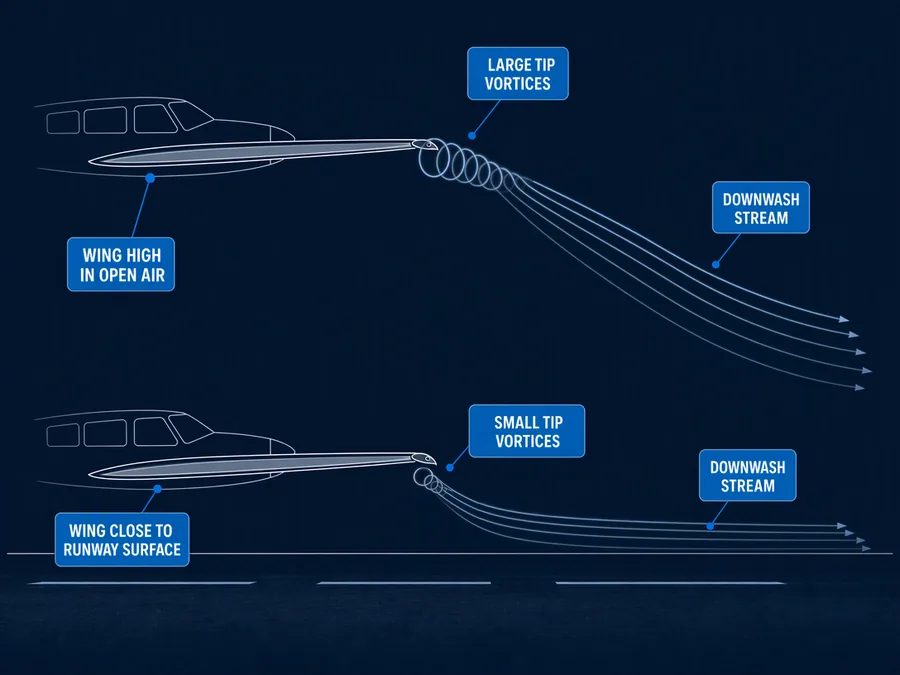
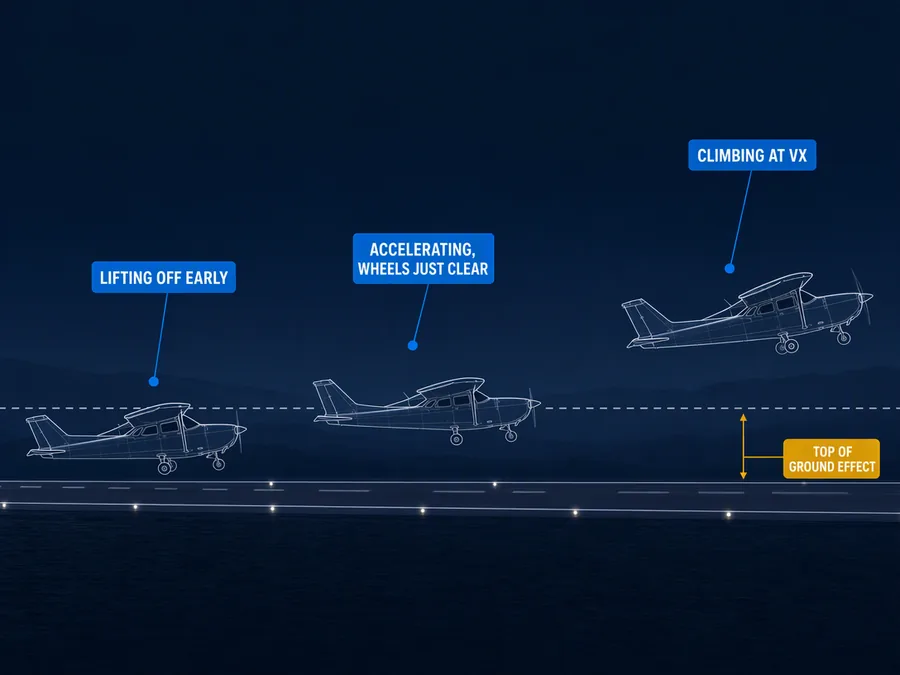
site: deploy website from monorepo c2369bd5
Auto-mirrored by .github/workflows/deploy-website.yml

diff --git a/explainers/ground-effect-in-the-flare/index.html b/explainers/ground-effect-in-the-flare/index.html
@@ -69,7 +69,7 @@
         "representativeOfPage": true
       },
       "mainEntityOfPage": "https://flightdecide.com/explainers/ground-effect-in-the-flare/",
-      "wordCount": 914,
+      "wordCount": 909,
       "sameAs": [
         "https://www.instagram.com/p/DdXk59RGQCe/"
       ],
@@ -159,53 +159,53 @@
       <li><span class="fk-label">SAME ATTITUDE, STILL SINKING</span><span class="fk-points">The pale ghost outline higher up and the two tight tip vortices trailing beneath it.</span></li>
     </ul>
 
-    <h2>Why the airplane won&#x27;t touch down</h2>
-    <p>You cross the threshold a little fast, close the throttle and start the flare. The nose comes up to the landing attitude. Then the runway keeps sliding by underneath, and the wheels stay just off it.</p>
-    <p>Pilots have felt this since the start of powered flight. Just before touchdown, the airplane seems unwilling to go any lower. The name for it is ground effect, the change in how air moves around a wing flying very close to the surface.</p>
-    <p>Ground effect works mostly by taking away part of one kind of drag. To see why that makes you float, start with where that drag comes from.</p>
+    <h2>What the float feels like</h2>
+    <p>You&#x27;re over the numbers at idle, easing back to hold the landing attitude. The wheels should be close to touching. Instead the airplane stays a few feet up and the runway keeps sliding by underneath.</p>
+    <p>That hold-off is ground effect. It&#x27;s a change in how the wing works when it flies very close to the surface, and the handbook calls it improved performance. Near the ground the wing does the same job with less drag.</p>
+    <p>It matters most when you hold a steady attitude at low speed and low height. That happens in two places on every flight. One is the flare before touchdown, and the other is the first moments after lift-off.</p>
 
-    <h2>Where induced drag comes from</h2>
-    <p>Your wing holds you up by pushing a mass of air downward. The air leaving the back of the wing on its way down is called downwash. The more downwash there is, the harder the wing is working.</p>
-    <p>Pressure under the wing is higher than pressure on top. So air spills outward and curls up around each tip, forming a spinning tube of air called a wingtip vortex. The energy that goes into those vortices is paid for as induced drag, the drag that comes with making lift.</p>
-    <p>Induced drag grows with angle of attack, the angle between the wing and the oncoming air. The slower you fly, the more angle you need to hold the airplane up. So induced drag is at its biggest at low speed.</p>
-    <p>That matters in the flare, where you are slow and nose high. Parasite drag, the drag of pushing the airframe through the air, grows with speed, so it&#x27;s small here. Most of what slows you down in the flare is induced drag.</p>
+    <h2>Why drag drops near the runway</h2>
+    <p>Every wing that makes lift also makes induced drag, the drag that comes with producing lift. It&#x27;s tied to the air the wing disturbs. Some air rises ahead of the wing, called upwash, and some is pushed down behind it, called downwash.</p>
+    <p>At each tip that disturbed air rolls up into wingtip vortices, the swirls that trail behind each wingtip. Close to the ground, upwash, downwash and those vortices all get weaker. Weaker vortices mean less induced drag.</p>
+    <p>Less drag means the airplane needs less thrust to hold a low airspeed in level flight. Near the surface, the same power goes further.</p>
+    <p>This only counts at low speed. At high speed, most of the total drag is parasite drag, the drag of pushing the airframe through the air. Induced drag is then a small share, so ground effect is mostly a takeoff and landing matter.</p>
 
-    <h2>What the runway does to the airflow</h2>
-    <p>Close to the ground, the surface gets in the way. The air around the wing can&#x27;t move up and down freely, because the runway is right there. That changes the whole pattern of flow around the wing.</p>
-    <p>The wing now makes less upwash, the air rising just ahead of it, and less downwash behind it. The tip vortices get weaker too. Weaker vortices mean less induced drag, and the wing needs a smaller angle of attack to make the same lift.</p>
-    <p>If you hold the same angle of attack instead, the wing makes more lift than it did higher up. Either way, the thrust required, the push needed to hold your speed against total drag, goes down. Induced drag is the big share at low speed, so that drop is large right where you fly the flare.</p>
-
-    <figure class="explainer-inline">
-      <img src="/assets/explainers/figures/ground-effect-in-the-flare-fig1.webp" alt="Near the surface the air under the wing has less room to go down, so the vortices that cost you drag shrink." loading="lazy" decoding="async" />
-      <figcaption>Near the surface the air under the wing has less room to go down, so the vortices that cost you drag shrink.</figcaption>
-    </figure>
-
-    <h2>How close the wing has to be</h2>
-    <p>Ground effect can normally be detected from a height of one wingspan above the surface. That is the outer edge, and at that edge the effect is tiny. The large drops only come much lower.</p>
-    <p>Two FAA handbooks give the figures. The Pilot&#x27;s Handbook of Aeronautical Knowledge gives exact percentages, and it lists the one-wingspan case. The Airplane Flying Handbook rounds the lower two. The table puts them side by side.</p>
-    <p>Look at how fast the numbers grow. Coming down from a quarter of the span to a tenth of it roughly doubles the saving. That&#x27;s why you hardly notice ground effect until the last moments before touchdown or just after liftoff.</p>
+    <h2>How close the ground has to be</h2>
+    <p>You can detect ground effect up to a height equal to one wingspan above the surface, and that&#x27;s normally where it starts. Climb above that and you&#x27;re out of it.</p>
+    <p>The effect grows quickly as you get lower. With the wing a quarter of a span above the surface, induced drag falls by about 25 percent. At a tenth of a span, it falls by about 50 percent.</p>
+    <p>The source gives no percentage for a full wingspan up, or for the heights in between. What its two figures do show is that the effect is strongest nearest the runway, in the last part of the descent.</p>
 
     <figure class="explainer-table">
-      <table><thead><tr><th>Wing height above the surface</th><th>Induced drag reduction, FAA-H-8083-25</th><th>Induced drag reduction, FAA-H-8083-3</th></tr></thead><tbody><tr><td>Equal to the wingspan</td><td>1.4 percent</td><td>Not given</td></tr><tr><td>One-fourth of the span</td><td>23.5 percent</td><td>About 25 percent</td></tr><tr><td>One-tenth of the span</td><td>47.6 percent</td><td>About 50 percent</td></tr></tbody></table>
-      <figcaption>Most of the drag saving comes in the last fraction of a wingspan, which is why the float starts so late in the flare.</figcaption>
+      <table><thead><tr><th>Wing height above the surface</th><th>Reduction in induced drag</th></tr></thead><tbody><tr><td>One wingspan</td><td>Ground effect normally occurs up to this height (no percentage given)</td></tr><tr><td>1/4 of the span</td><td>About 25 percent</td></tr><tr><td>1/10 of the span</td><td>About 50 percent</td></tr></tbody></table>
+      <figcaption>How much induced drag falls away at different wing heights above the surface.</figcaption>
     </figure>
 
-    <h2>Why extra speed turns into float</h2>
-    <p>Now put it together. You are slow, nose high, with the throttle closed. Then you sink into the lowest part of that wingspan and a big slice of your drag disappears.</p>
-    <p>With less drag and no power, very little is slowing the airplane down. Any speed you carried into the flare has nowhere to go. The handbook warns that excess speed at the flare can mean a considerable float distance.</p>
-    <p>Lift goes up as well. Hold the same attitude and the wing makes more lift near the ground than it did above it. On the last part of the approach you need to take off some power to offset that, or the airplane tends to climb above your glidepath.</p>
-    <p>Your instruments change too. Ground effect usually raises the pressure at the static source, the small port that feeds the airspeed indicator and altimeter. In most cases both read a little low, so the needle shows less speed than you really have.</p>
+    <h2>Why you float in the flare</h2>
+    <p>In the flare you&#x27;re doing exactly what ground effect rewards. The power is back, the speed is low, and you&#x27;re holding a steady nose-up attitude as the wing sinks toward the runway.</p>
+    <p>As the wing drops into the last wingspan, induced drag falls away. With less drag slowing it down, the airplane keeps flying longer than you expected. That extra flying is the float.</p>
+    <p>Every second of float is runway passing under you. Knowing the drag drops just where you flare means you can expect the float instead of being caught out by it.</p>
 
-    <h2>Lifting off before you can climb</h2>
-    <p>The same physics works in reverse on takeoff. The takeoff roll, the liftoff and the start of the climb all happen inside ground effect. With drag reduced, the airplane can seem ready to fly below the recommended speed.</p>
-    <p>Climbing out of the last wingspan undoes all of it. Induced drag and thrust required go up. The wing needs more angle of attack for the same lift, the nose tends to pitch up, and indicated airspeed rises as static pressure drops.</p>
-    <p>If you lifted off too slow, that extra drag arrives when you have no speed to spare. Your first climb will be much weaker than at the best rate or best angle speeds. In some airplanes, being 5 knots off the recommended speed may cost a lot of climb performance.</p>
-    <p>At high density altitude, high temperature or maximum gross weight, the airplane may lift off and then be unable to climb out of ground effect. That&#x27;s when it settles back onto the runway. The handbook is clear that you should not force an airplane off the ground without enough speed.</p>
-    <p>Ground effect can also help. On a long runway with no obstacles, the lower drag helps you accelerate early on. From a soft field you lift off early, lower the nose and let speed build with the wheels just clear, climbing out only once you have normal airspeed.</p>
+    <h2>Why you can lift off too slow</h2>
+    <p>The same drop in drag works on takeoff. The takeoff roll, the lift-off and the start of the climb all happen inside the ground effect area. With less drag, the airplane can seem ready to fly below the recommended airspeed.</p>
+    <p>Then it climbs past the last wingspan and loses that help. Drag and the thrust needed both go up. If you&#x27;re still slow, the climb will be much weaker than at VY or even VX, the best rate and best angle of climb speeds.</p>
+    <p>That&#x27;s how an airplane lifts off and then settles back. Pulling it off too early, or climbing too steeply, can put it back on the runway. Even if it stays up, the climb stays flat until you reach VX.</p>
+    <p>High density altitude, high temperature or maximum gross weight make this worse. The airplane may lift off and then be unable to climb out of ground effect or clear obstacles.</p>
+    <p>In some airplanes, flying 5 knots off the recommended speed may cut climb performance a lot. When conditions are marginal, take off at the speed your POH, the pilot&#x27;s operating handbook, gives for a proper initial climb.</p>
+
+    <h2>What changes as you climb out</h2>
+    <p>Down in ground effect, the static pressure around the airplane rises. That&#x27;s the pressure of the surrounding air, sensed by a small port called the static source. Your airspeed indicator, altimeter and vertical speed indicator all use it.</p>
+    <p>So on the takeoff roll and just after lift-off, the airspeed indicator and altimeter read slightly lower than they should. The vertical speed indicator usually shows a descent.</p>
+    <p>As you climb out, the wing needs a higher angle of attack to keep making the same lift. Angle of attack is the angle between the wing and the oncoming air. At the same time, induced drag and thrust required both go up.</p>
+    <p>More downwash now reaches the tail. The nose tends to pitch up, and you need less elevator travel. Static pressure falls back, so indicated airspeed goes up.</p>
+
+    <h2>Using ground effect on purpose</h2>
+    <p>Ground effect is a normal part of flying, and it can help you. On a long enough runway, or with no obstacles ahead, the lower drag gives you better acceleration early in the takeoff.</p>
+    <p>On a soft or rough surface you want the wheels off early. Put as much weight on the wings as you can during the ground run, and let ground effect hold you up before true flying speed. Then lower the nose and gain normal airspeed before you climb out of it.</p>
+    <p>Some airplanes tend to lift off well before VX. In those, let it fly off in ground effect and bring the pitch down to level. Keep the wheels just clear of the runway until the airplane has accelerated to VX.</p>
 
     <figure class="explainer-inline">
-      <img src="/assets/explainers/figures/ground-effect-in-the-flare-fig2.webp" alt="Rising out of ground effect too slow brings the drag back all at once, while staying low to gain speed first lets the airplane climb away." loading="lazy" decoding="async" />
-      <figcaption>Rising out of ground effect too slow brings the drag back all at once, while staying low to gain speed first lets the airplane climb away.</figcaption>
+      <img src="/assets/explainers/figures/ground-effect-in-the-flare-fig1.webp" alt="An early lift-off is fine if you stay level inside ground effect until you reach VX, and only then climb." loading="lazy" decoding="async" />
+      <figcaption>An early lift-off is fine if you stay level inside ground effect until you reach VX, and only then climb.</figcaption>
     </figure>
 
     <h2>What this teaches</h2>
